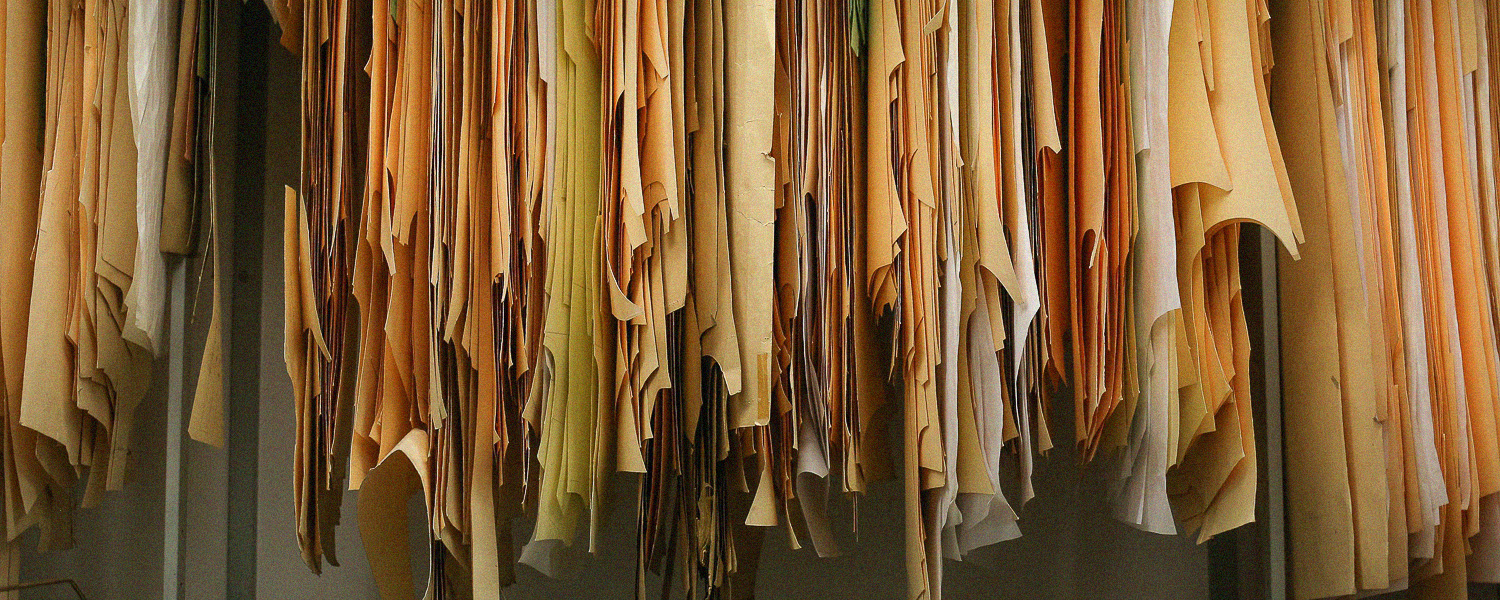
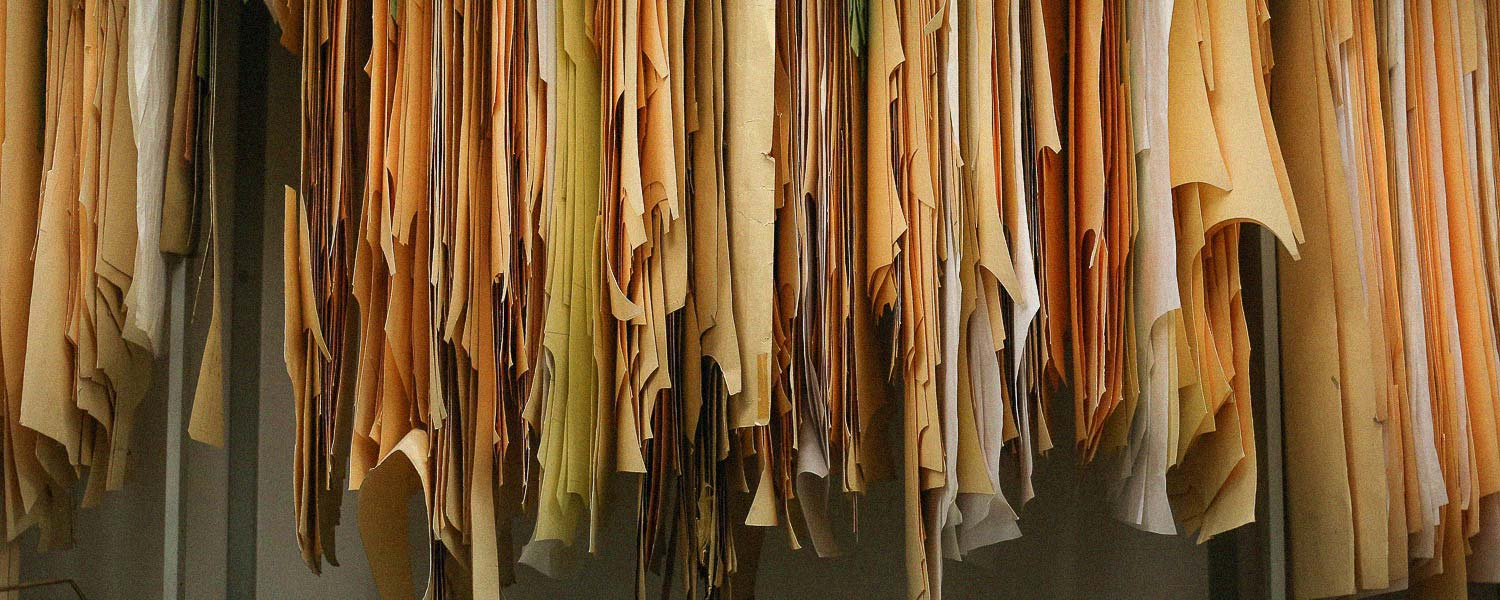
upadte meta description

diff --git a/FashionStore/wwwroot/css/landbook.css b/FashionStore/wwwroot/css/landbook.css
@@ -83,7 +83,7 @@ h1, h2, h3, h4, .font-serif {
 
 .let-us-you {
     position: relative;
-    background: url('/image/appoinment.png');
+    background: url('/image/appoinment.jpg');
     background-size: cover;
     background-position: center;
     background-repeat: no-repeat;

diff --git a/FashionStore/wwwroot/css/site.css b/FashionStore/wwwroot/css/site.css
@@ -249,7 +249,7 @@ body {
     border-bottom: 1px solid rgba(255, 255, 255, 0.4);
     color: #fff;
     padding: 0px 18px 0px 5px;
-    width: 80px;
+    width: 130px;
     font-size: 12px;
     font-family: 'Montserrat', sans-serif;
     transition: all 0.3s ease;

diff --git a/FashionStore/Areas/Admin/Controllers/ProductAdminController.cs b/FashionStore/Areas/Admin/Controllers/ProductAdminController.cs
@@ -153,6 +153,7 @@ namespace FashionStore.Areas.Admin.Controllers
                 existingProduct.StockQuantity = product.StockQuantity;
                 existingProduct.CategoryId = product.CategoryId;
                 existingProduct.Description = product.Description;
+                existingProduct.MetaDescription = product.MetaDescription;
                 existingProduct.Slug = SlugHelper.GenerateSlug(product.ProductName);
 
                 if (files != null && files.Count > 0)

diff --git a/FashionStore/Repository/Models/Appointment.cs b/FashionStore/Repository/Models/Appointment.cs
@@ -12,12 +12,10 @@ public partial class Appointment
     public int AppointmentId { get; set; }
 
     [StringLength(100)]
-    [Required(ErrorMessage = "Please enter your name.")]
     public string FullName { get; set; } = null!;
 
     [StringLength(20)]
     [Unicode(false)]
-    [Required(ErrorMessage = "Please enter your phone number.")]
     public string PhoneNumber { get; set; } = null!;
 
     [StringLength(255)]

diff --git a/FashionStore/Areas/Admin/Controllers/NewsAdminController.cs b/FashionStore/Areas/Admin/Controllers/NewsAdminController.cs
@@ -104,6 +104,7 @@ namespace FashionStore.Areas.Admin.Controllers
                 existing.Slug = news.Slug;
                 existing.NewsCategoryId = news.NewsCategoryId;
                 existing.IsPublished = news.IsPublished;
+                existing.MetaDescription = news.MetaDescription;
                 await _context.SaveChangesAsync();
                 return RedirectToAction(nameof(Index));
             }

diff --git a/FashionStore/Repository/Models/Product.cs b/FashionStore/Repository/Models/Product.cs
@@ -32,6 +32,9 @@ public partial class Product
     [Column(TypeName = "datetime")]
     public DateTime? CreatedAt { get; set; }
 
+    [StringLength(160)]
+    public string? MetaDescription { get; set; }
+
     [ForeignKey("CategoryId")]
     [InverseProperty("Products")]
     public virtual Category Category { get; set; } = null!;

diff --git a/FashionStore/Repository/fashionDbContext.cs b/FashionStore/Repository/fashionDbContext.cs
@@ -43,6 +43,7 @@ public partial class fashionDbContext : DbContext
     public virtual DbSet<Redirect> Redirects { get; set; }
 
     public virtual DbSet<User> Users { get; set; }
+
     protected override void OnModelCreating(ModelBuilder modelBuilder)
     {
         modelBuilder.Entity<Appointment>(entity =>

diff --git a/FashionStore/Repository/Models/News.cs b/FashionStore/Repository/Models/News.cs
@@ -34,6 +34,9 @@ public partial class News
 
     public int ViewCount { get; set; }
 
+    [StringLength(160)]
+    public string? MetaDescription { get; set; }
+
     [ForeignKey("NewsCategoryId")]
     [InverseProperty("News")]
     public virtual NewsCategory? NewsCategory { get; set; }
